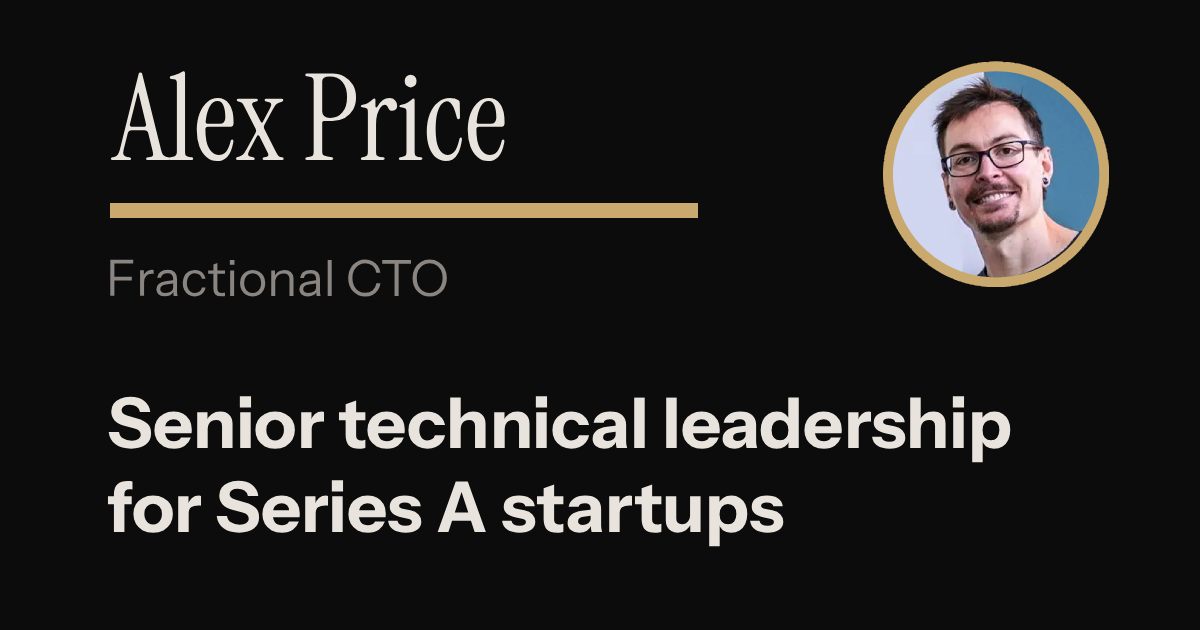
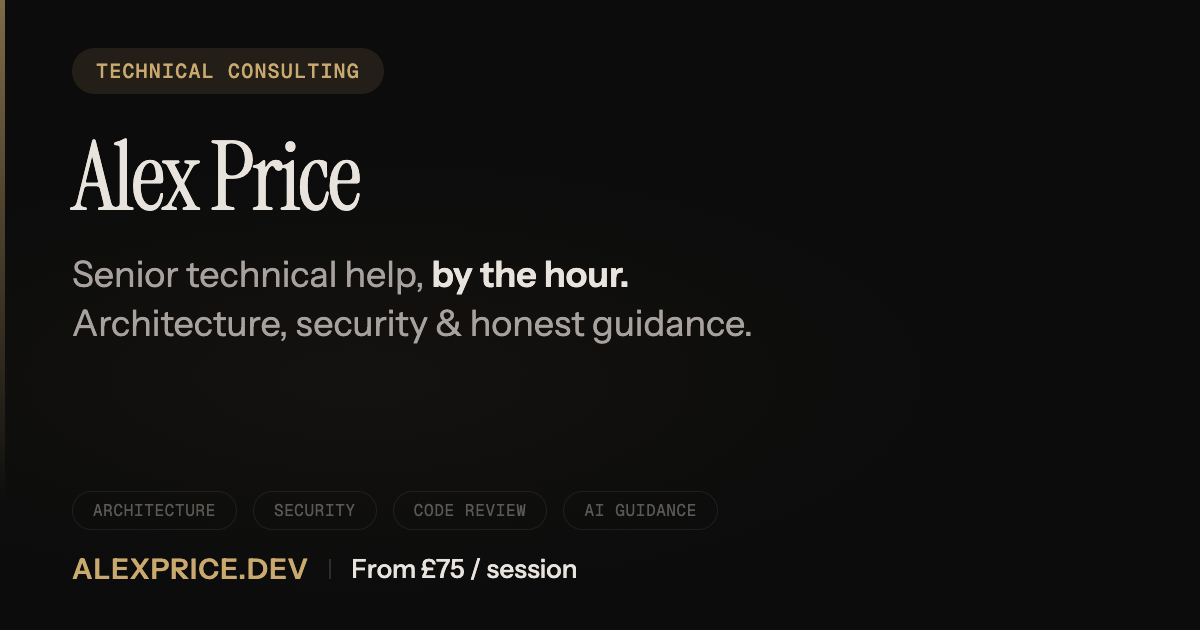
Add programmatic site OG image generation (#16)
Replaces the static "Fractional CTO" OG image with a Puppeteer-generated
one matching the current pay-as-you-go consulting positioning.

diff --git a/tools/generate-site-og.ts b/tools/generate-site-og.ts
@@ -1,0 +1,222 @@
+/**
+ * Generates the default site OG image (1200x630) for alexprice.dev.
+ *
+ * Usage: bun run tools/generate-site-og.ts
+ *
+ * Renders a branded card with the site's current messaging using Puppeteer,
+ * saves to public/og-image.png.
+ */
+
+import { join } from "node:path";
+import puppeteer from "puppeteer-core";
+
+const OUTPUT_PATH = join(import.meta.dir, "../public/og-image.png");
+
+function buildHTML(): string {
+  return `<!DOCTYPE html>
+<html lang="en">
+<head>
+  <meta charset="UTF-8">
+  <link rel="preconnect" href="https://fonts.googleapis.com">
+  <link rel="preconnect" href="https://fonts.gstatic.com" crossorigin>
+  <link href="https://fonts.googleapis.com/css2?family=Instrument+Sans:wght@400;500;600;700&family=Instrument+Serif:ital@0;1&family=Geist+Mono:wght@400;500&display=swap" rel="stylesheet">
+  <style>
+    *, *::before, *::after { margin: 0; padding: 0; box-sizing: border-box; }
+    body {
+      background: #1a1a1a;
+      display: flex;
+      align-items: center;
+      justify-content: center;
+      padding: 40px;
+    }
+
+    .og {
+      width: 1200px;
+      height: 630px;
+      background: #0C0C0C;
+      position: relative;
+      overflow: hidden;
+    }
+
+    .og::before {
+      content: '';
+      position: absolute;
+      inset: 0;
+      background: radial-gradient(ellipse 70% 50% at 30% 60%, rgba(201, 169, 110, 0.04) 0%, transparent 70%);
+    }
+
+    .og-accent {
+      position: absolute;
+      top: 0;
+      left: 0;
+      width: 5px;
+      height: 100%;
+      background: linear-gradient(180deg, #C9A96E 0%, transparent 80%);
+      opacity: 0.6;
+    }
+
+    .og-label {
+      position: absolute;
+      top: 48px;
+      left: 72px;
+      font-family: 'Geist Mono', monospace;
+      font-size: 20px;
+      font-weight: 500;
+      letter-spacing: 0.06em;
+      text-transform: uppercase;
+      color: #C9A96E;
+      background: rgba(201, 169, 110, 0.12);
+      padding: 10px 24px;
+      border-radius: 999px;
+    }
+
+    .og-name {
+      position: absolute;
+      top: 130px;
+      left: 72px;
+      right: 72px;
+      font-family: 'Instrument Serif', serif;
+      font-size: 96px;
+      line-height: 1.0;
+      letter-spacing: -0.03em;
+      color: #E8E3DD;
+      font-weight: 400;
+    }
+
+    .og-tagline {
+      position: absolute;
+      top: 250px;
+      left: 72px;
+      right: 200px;
+      font-family: 'Instrument Sans', sans-serif;
+      font-size: 36px;
+      line-height: 1.35;
+      color: #A8A29E;
+      font-weight: 400;
+    }
+
+    .og-tagline em {
+      color: #E8E3DD;
+      font-style: normal;
+      font-weight: 600;
+    }
+
+    .og-services {
+      position: absolute;
+      bottom: 100px;
+      left: 72px;
+      display: flex;
+      gap: 16px;
+    }
+
+    .og-services span {
+      font-family: 'Geist Mono', monospace;
+      font-size: 16px;
+      font-weight: 400;
+      letter-spacing: 0.04em;
+      text-transform: uppercase;
+      color: #5C5955;
+      padding: 8px 20px;
+      border: 1px solid rgba(232, 227, 221, 0.08);
+      border-radius: 999px;
+    }
+
+    .og-footer {
+      position: absolute;
+      left: 72px;
+      bottom: 44px;
+      display: flex;
+      align-items: center;
+      gap: 20px;
+    }
+
+    .og-footer .site {
+      font-family: 'Instrument Sans', sans-serif;
+      font-size: 28px;
+      font-weight: 600;
+      letter-spacing: 0.04em;
+      text-transform: uppercase;
+      color: #C9A96E;
+    }
+
+    .og-footer .sep {
+      width: 2px;
+      height: 20px;
+      background: rgba(232, 227, 221, 0.15);
+    }
+
+    .og-footer .price {
+      font-family: 'Instrument Sans', sans-serif;
+      font-size: 26px;
+      font-weight: 500;
+      color: #E8E3DD;
+    }
+  </style>
+</head>
+<body>
+  <div class="og" id="site-og">
+    <div class="og-accent"></div>
+    <div class="og-label">Technical Consulting</div>
+    <div class="og-name">Alex Price</div>
+    <div class="og-tagline">
+      Senior technical help, <em>by the hour.</em><br>
+      Architecture, security &amp; honest guidance.
+    </div>
+    <div class="og-services">
+      <span>Architecture</span>
+      <span>Security</span>
+      <span>Code Review</span>
+      <span>AI Guidance</span>
+    </div>
+    <div class="og-footer">
+      <span class="site">alexprice.dev</span>
+      <span class="sep"></span>
+      <span class="price">From £75 / session</span>
+    </div>
+  </div>
+</body>
+</html>`;
+}
+
+async function main() {
+  const html = buildHTML();
+
+  const browser = await puppeteer.launch({
+    headless: true,
+    executablePath:
+      "/Applications/Google Chrome.app/Contents/MacOS/Google Chrome",
+  });
+  const page = await browser.newPage();
+  await page.setViewport({ width: 1400, height: 800, deviceScaleFactor: 1 });
+  await page.setContent(html, { waitUntil: "domcontentloaded" });
+
+  // Wait for Google Fonts to load
+  await page.evaluate(
+    () =>
+      new Promise<void>((resolve) => {
+        const timeout = setTimeout(resolve, 8000);
+        document.fonts.ready.then(() => {
+          clearTimeout(timeout);
+          resolve();
+        });
+      })
+  );
+  // Extra pause for font rendering
+  await new Promise((r) => setTimeout(r, 1000));
+
+  const element = await page.$("#site-og");
+  if (!element) {
+    process.stderr.write("Could not find OG element\n");
+    process.exit(1);
+  }
+
+  await element.screenshot({ path: OUTPUT_PATH, type: "png" });
+  process.stdout.write(`Generated: ${OUTPUT_PATH}\n`);
+
+  await browser.close();
+}
+
+main().catch((err) => {
+  process.stderr.write(`${err}\n`);
+  process.exit(1);
+});
